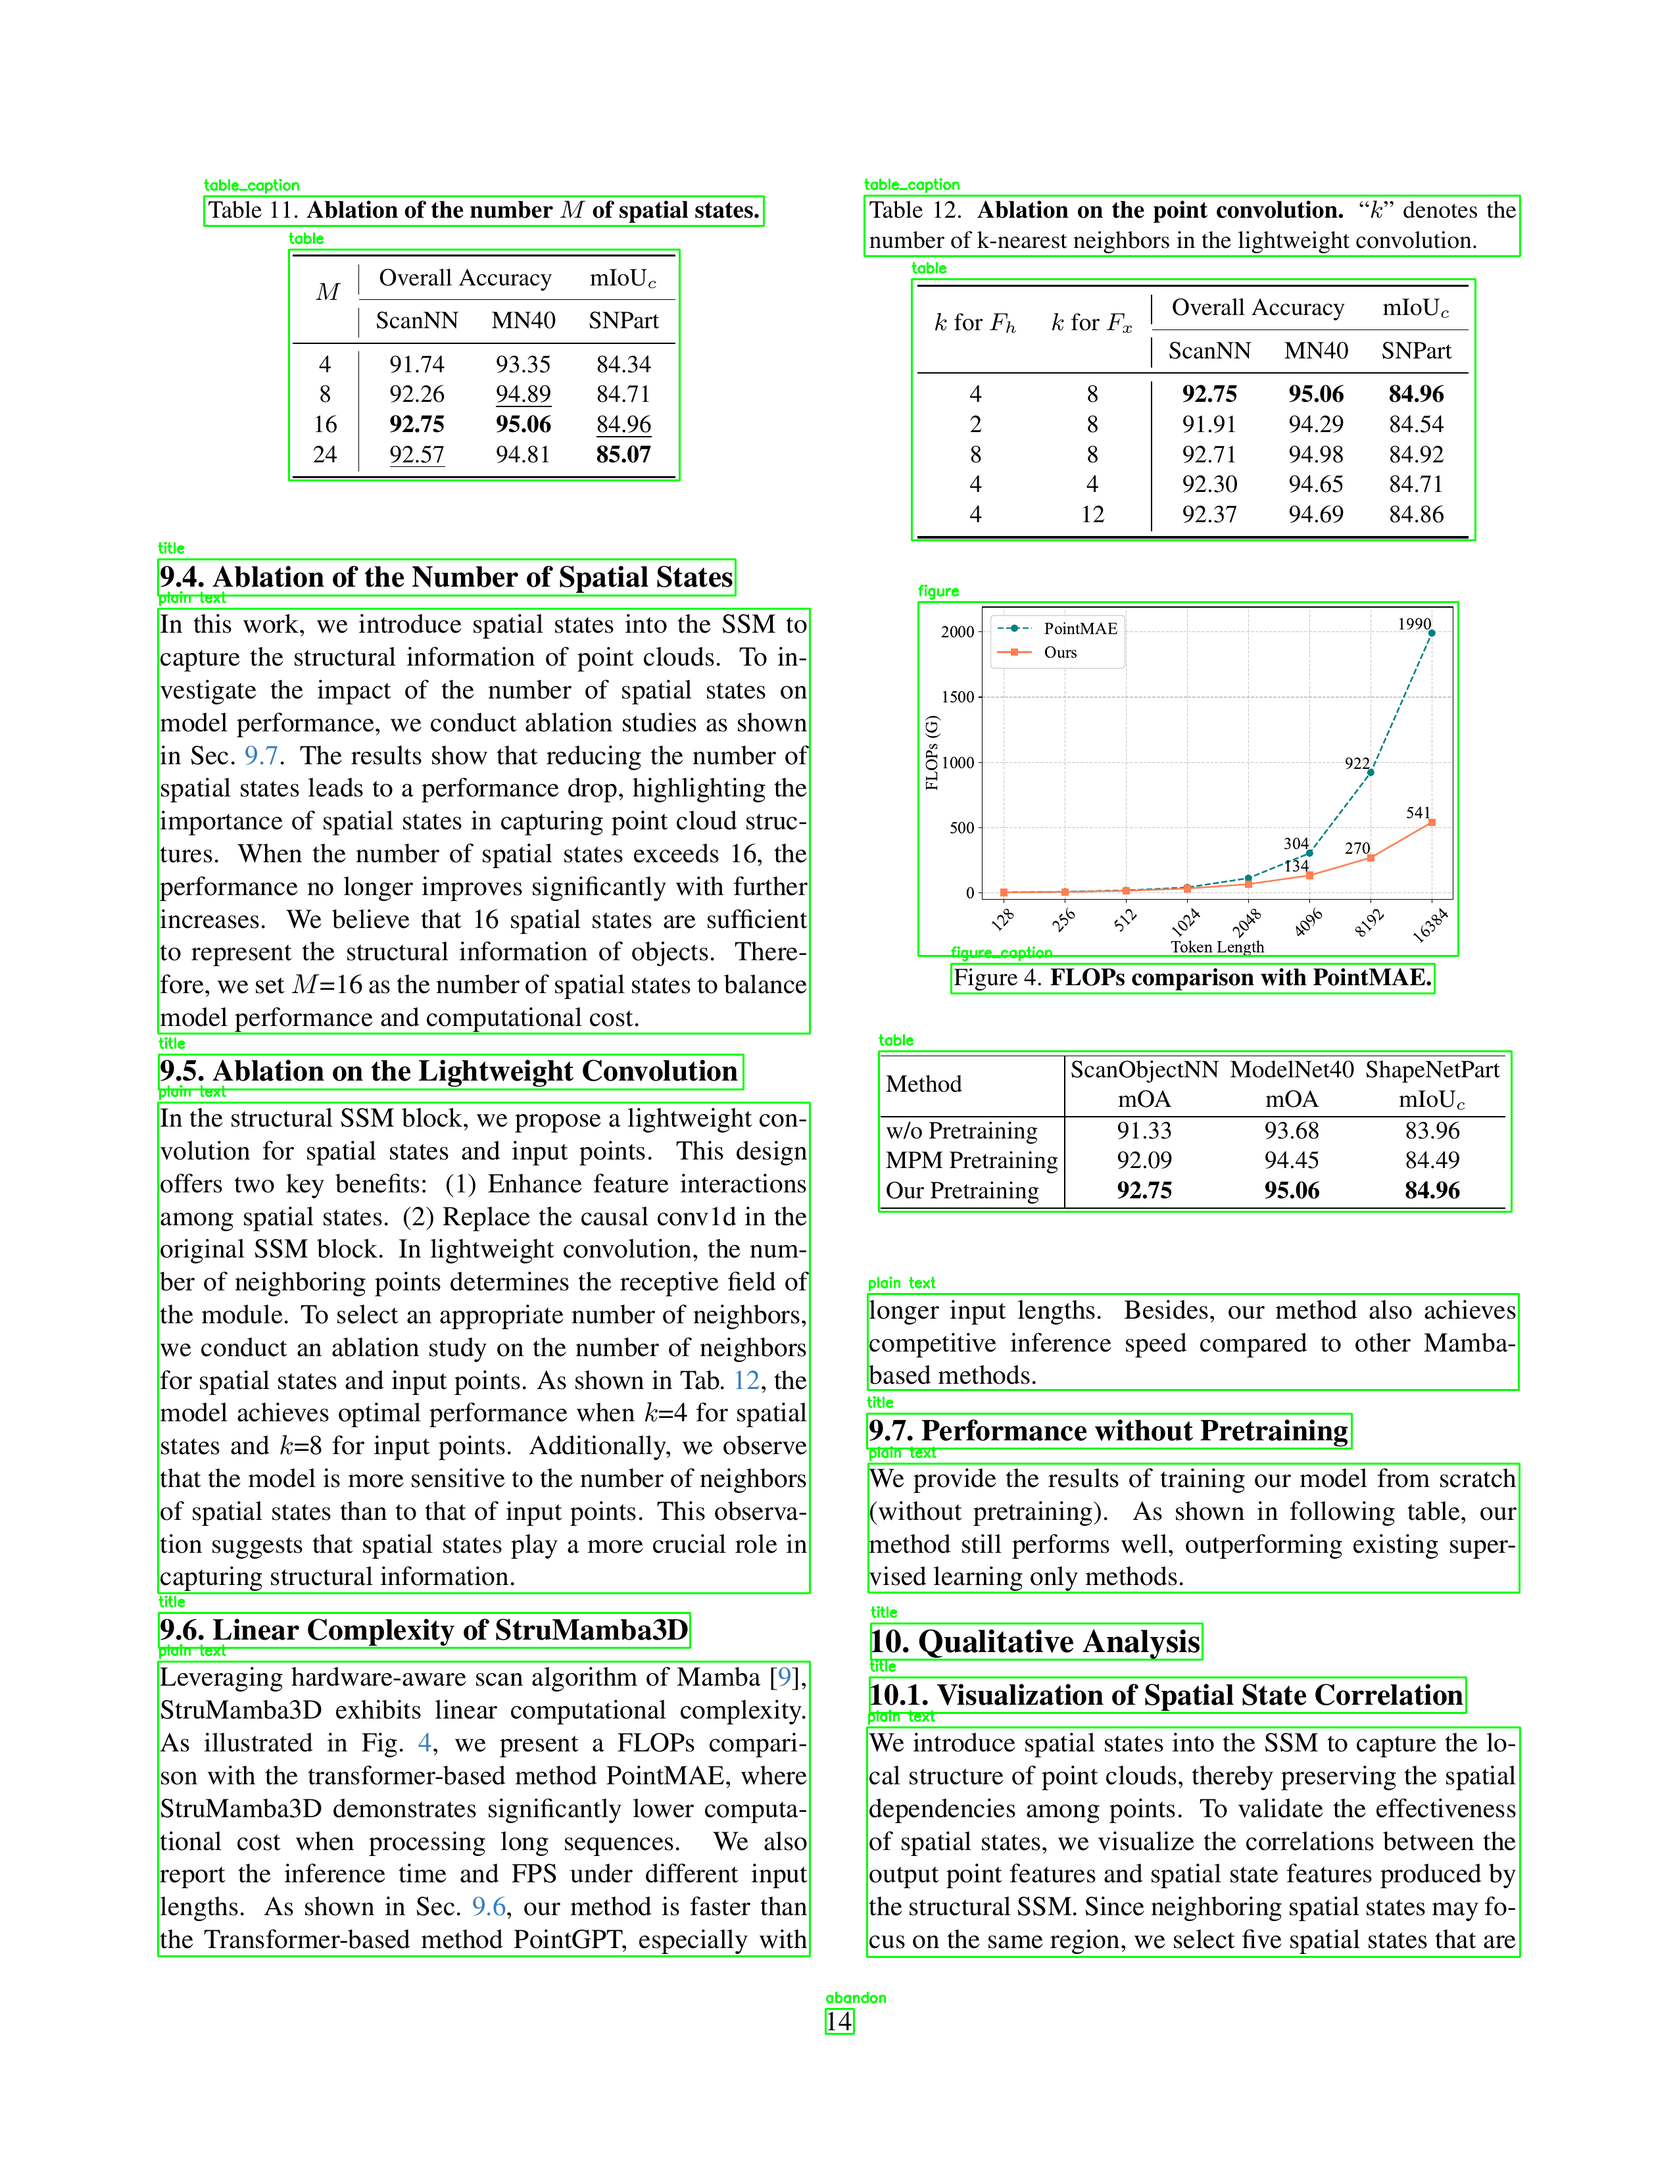
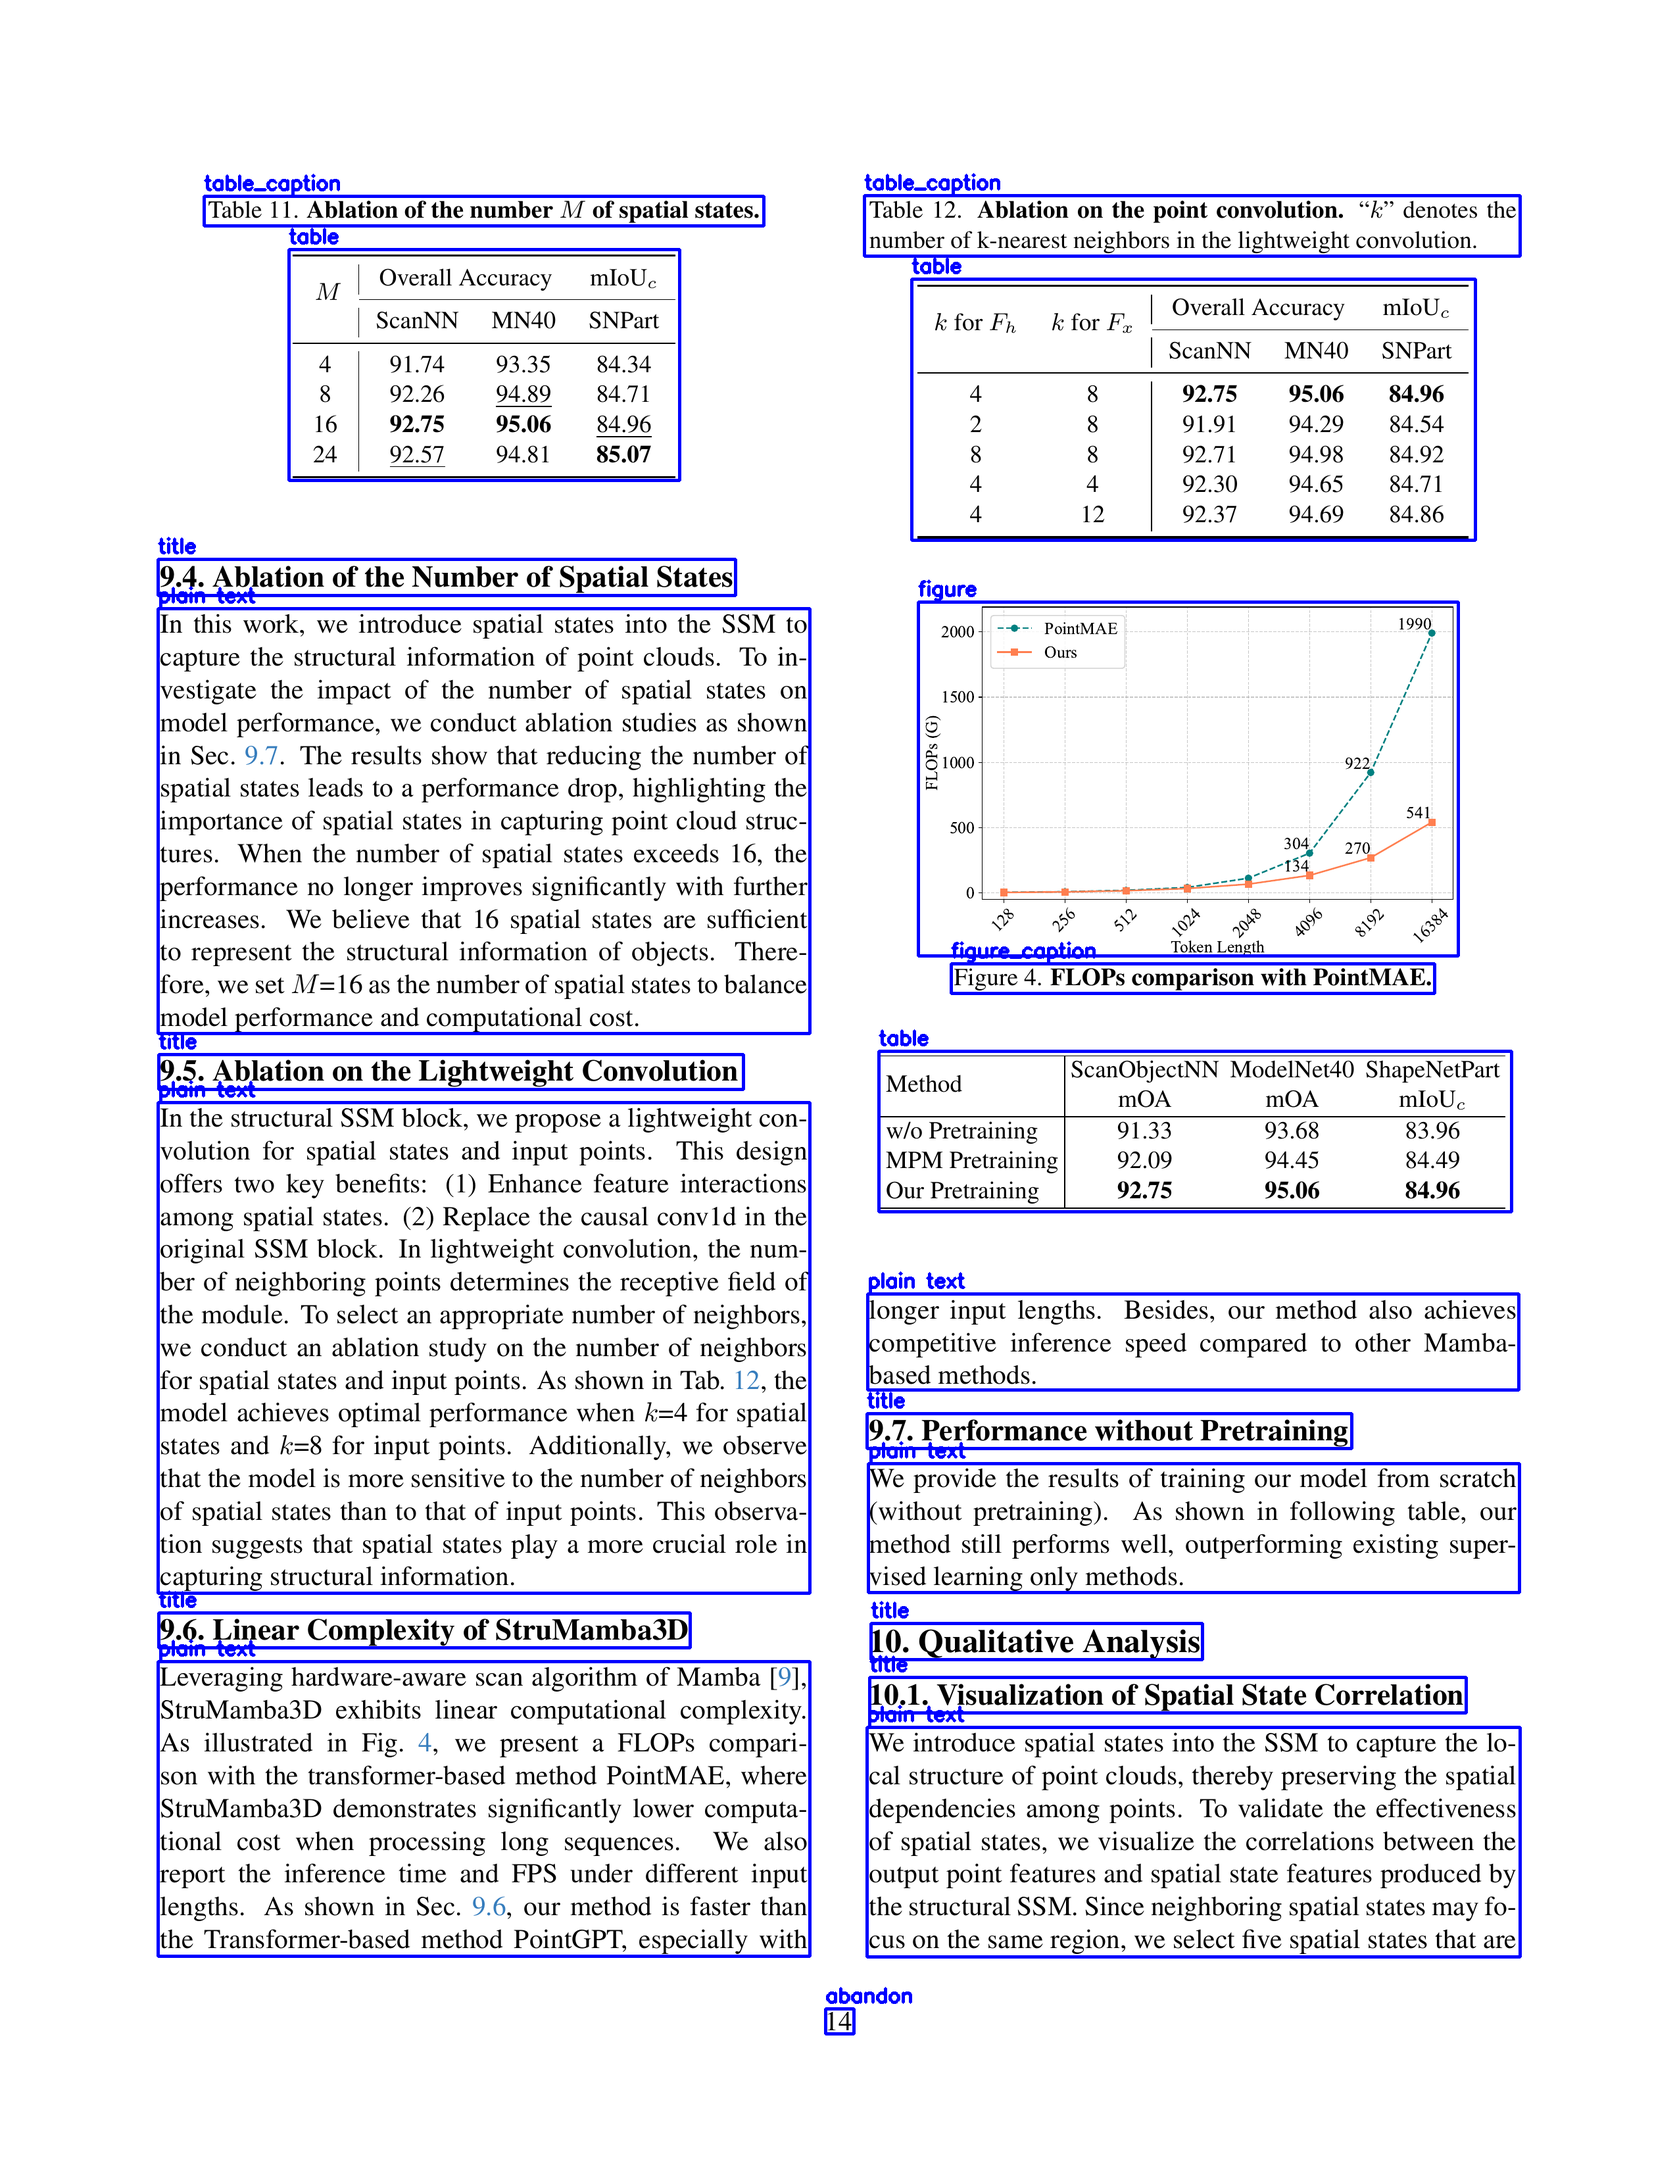
made page annotation more readable

diff --git a/src/save_annotated_pages.py b/src/save_annotated_pages.py
@@ -73,8 +73,8 @@ for page_path in pages:
                 image,
                 (x1, y1),
                 (x2, y2),
-                (0, 255, 0),
-                2
+                (255, 0, 0),
+                4
             )
 
             # draw label
@@ -83,9 +83,9 @@ for page_path in pages:
                 label,
                 (x1, max(20, y1 - 10)),
                 cv2.FONT_HERSHEY_SIMPLEX,
-                0.7,
-                (0, 255, 0),
-                2
+                1.0,
+                (255, 0, 0),
+                3
             )
 
     # save annotated page
